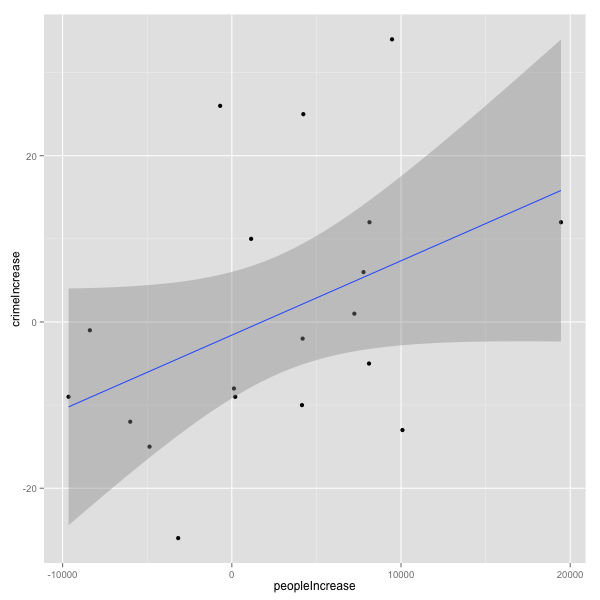
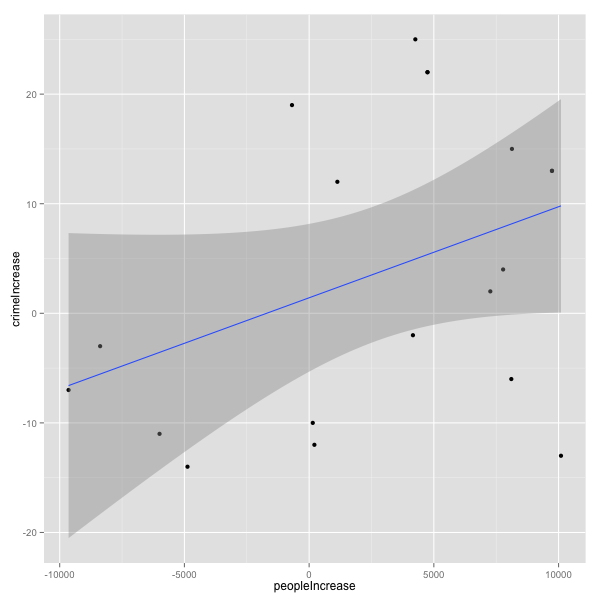
Added back EMS data, fixed graphs

diff --git a/index.html b/index.html
@@ -28,7 +28,7 @@
     <div class="container" style="margin-top: 30px;">
         <h1>MBTA Late Night T <small>Data Challenge</small></h1>
         <p class="lead">Exploring the effects of the Late Night T service on the
-            weekends on reported crime and Mayor's hotline complaints.</p>
+            weekends on reported crime, emergencie room visits and Mayor's hotline complaints.</p>
 
 
         <h3>Introduction</h3>
@@ -40,10 +40,12 @@
         <h3>Results</h3>
         <p>After processing the data, we observed...</p>
 
+        <h4 style="margin-top: 30px;">Crimes reported vs. number of people out</h4>
+        <img src="images/compCrime.png" class="img-thumbnail" alt="Crime comparison">
+        <h4 style="margin-top: 30px;">Emergencie room visits vs. number of people out</h4>
+        <img src="images/compEmergencies.png" class="img-thumbnail" alt="Emergencies comparison">
         <h4 style="margin-top: 30px;">Mayor Hotline's complaints vs. number of people out</h4>
         <img src="images/compComplaints.png" class="img-thumbnail" alt="Complaints comparison">
-        <h4 style="margin-top: 30px;">Crime vs. Number of people out</h4>
-        <img src="images/compCrime.png" class="img-thumbnail" alt="Crime comparison">
 
 
     </div>
